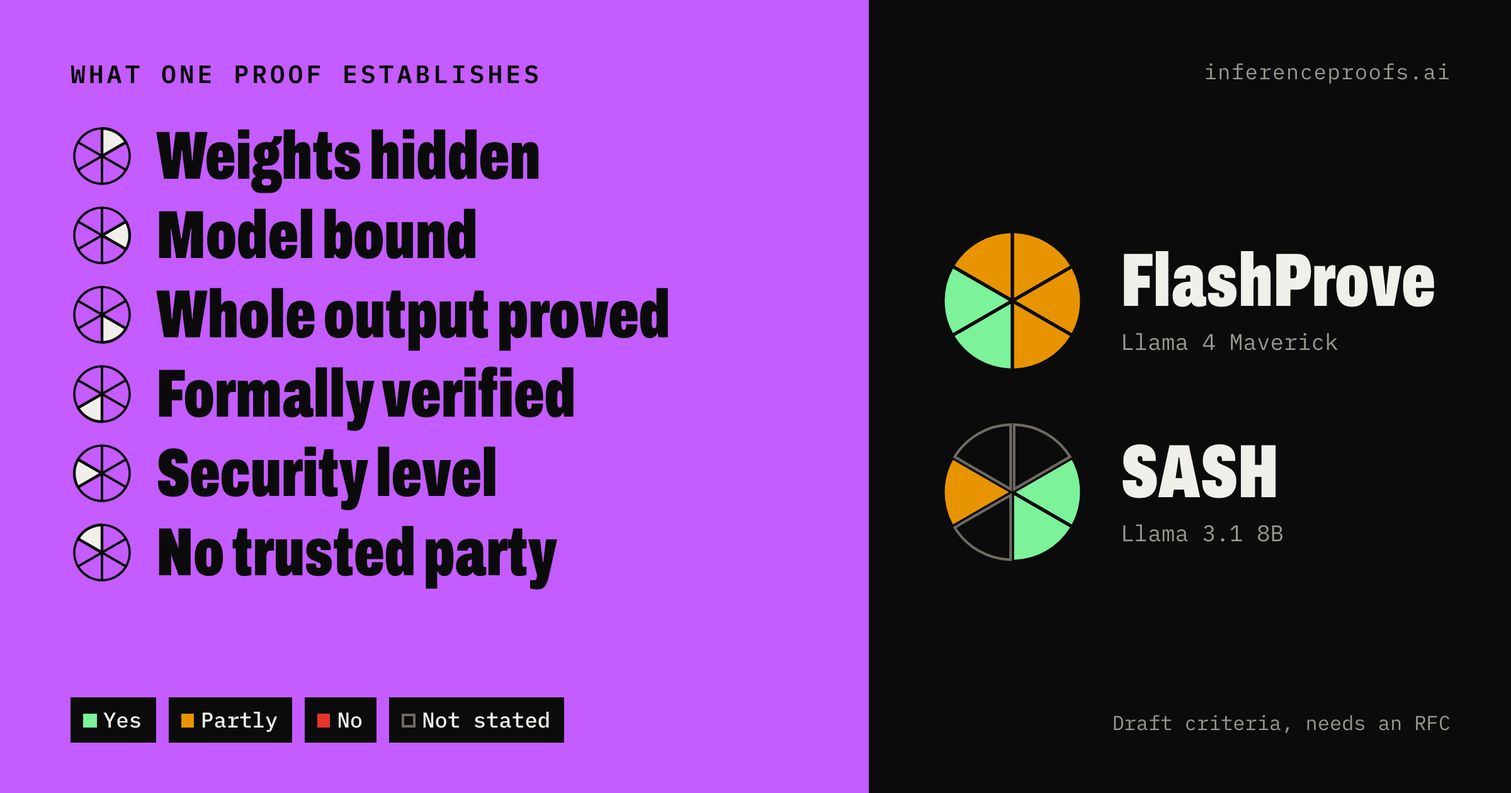
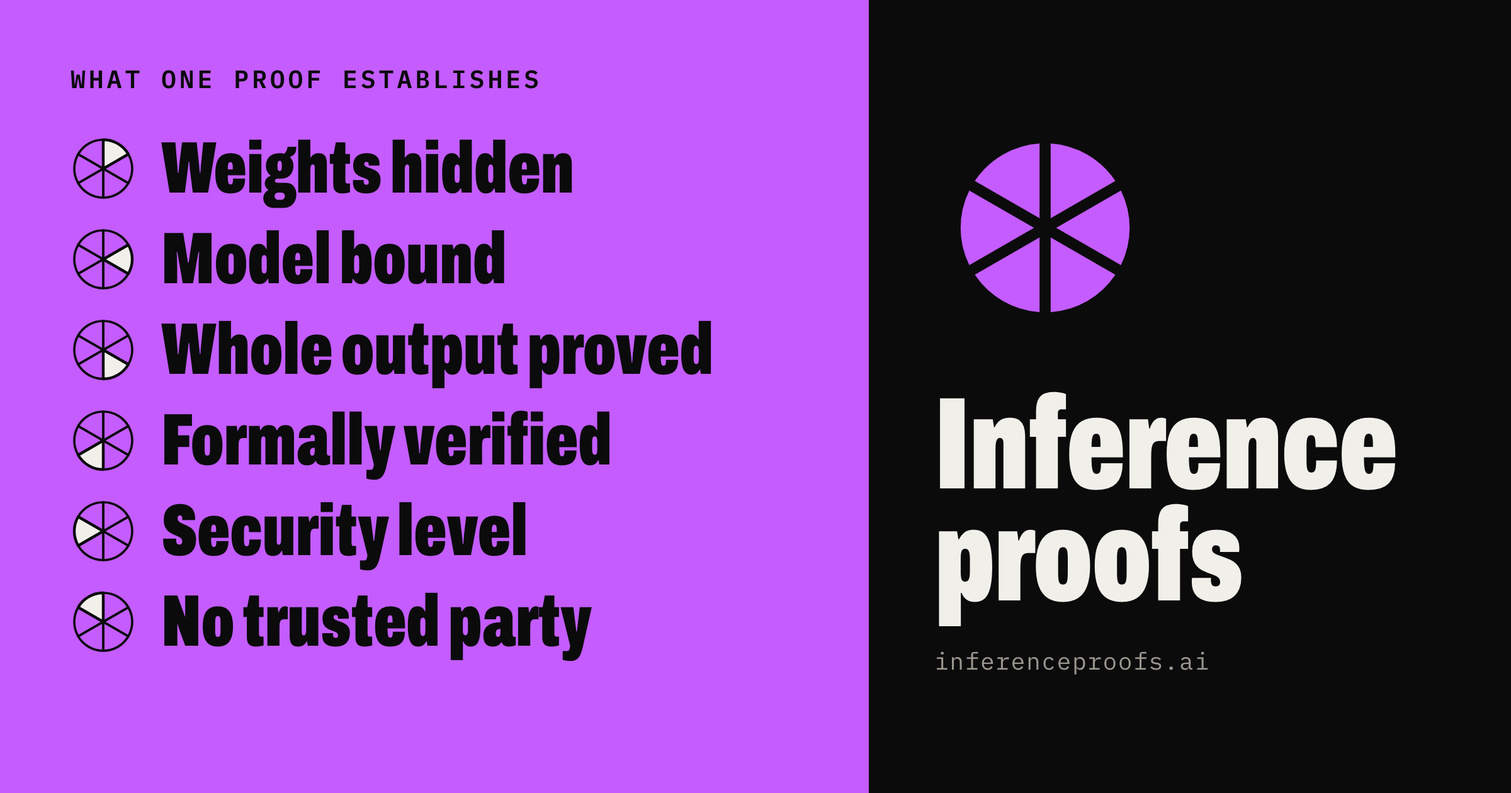
Keep the home preview card free of systems and models
Link previews stay cached in message apps for as long as a message
lives, so the home picture now holds only what does not change with the
systems benchmarked: the six properties, each beside its place in the
pie, and the site's mark and name. No system pie, name, model or state,
and so no states key or draft label (the system cards keep both).
test_cards.py checks that the home source names no system and no model.

Claude-Session: https://claude.ai/code/session_011qCSbnjLPKFSQTeMa9vkid

diff --git a/web/og/home.html b/web/og/home.html
@@ -10,19 +10,13 @@ html,body{width:1200px;height:630px;overflow:hidden;background:#0b0b0c;color:#f1
 .sw{display:inline-block;width:.62em;height:.62em;margin-right:.32em;vertical-align:.02em}
 .sw.yes{background:#7cf29a}.sw.partly{background:#e89400}.sw.no{background:#e8332a}.sw.unstated{box-shadow:inset 0 0 0 2px #6f6a62}
 
-.l{position:absolute;left:0;top:0;width:690px;height:630px;background:#c45cff;color:#0b0b0c;padding:46px 56px}
-.r{position:absolute;left:690px;top:0;right:0;height:630px;padding:46px 48px 46px 52px;display:flex;flex-direction:column;justify-content:center;gap:28px}
+.l{position:absolute;left:0;top:0;width:690px;height:630px;background:#c45cff;color:#0b0b0c;padding:50px 56px}
+.r{position:absolute;left:690px;top:0;right:0;height:630px;padding:50px 52px;display:flex;flex-direction:column;justify-content:center}
 .k{font-size:20px;font-weight:600;letter-spacing:.12em;text-transform:uppercase}
-ul{list-style:none;margin-top:26px;display:grid;gap:9px}
-li{display:flex;align-items:center;gap:18px}
-li .disp{font-size:54px;line-height:1;letter-spacing:-.004em}
-.key{position:absolute;left:56px;bottom:40px;display:flex;gap:10px}
-.chip{background:#0b0b0c;color:#f1efe9;font-size:17px;font-weight:500;padding:7px 11px 7px 10px;white-space:nowrap}
-.draft{position:absolute;right:48px;bottom:46px;font-size:16px;color:#9b978e}
-.sys .sl.unstated{stroke-width:2.4}
-.sys{display:flex;align-items:center;gap:24px}
-.sys .pie-svg{width:124px;height:124px;flex:none}
-.n{font-size:60px;line-height:.9}
-.m{font-size:18px;color:#9b978e;margin-top:10px}
-.url{position:absolute;right:48px;top:46px;font-size:17px;color:#9b978e;letter-spacing:.04em}
-</style></head><body><div class="l"><p class="k mono">What one proof establishes</p><ul><li><svg class="kmini" viewBox="-25.0 -25.0 50 50" width="50" height="50" aria-hidden="true" focusable="false"><path class="" d="M0.00 -0.00L19.05 -11.00A22.00 22.00 0 0 1 19.05 11.00Z"/><path class="" d="M0.00 0.00L19.05 11.00A22.00 22.00 0 0 1 0.00 22.00Z"/><path class="" d="M-0.00 0.00L-0.00 22.00A22.00 22.00 0 0 1 -19.05 11.00Z"/><path class="" d="M-0.00 0.00L-19.05 11.00A22.00 22.00 0 0 1 -19.05 -11.00Z"/><path class="" d="M-0.00 -0.00L-19.05 -11.00A22.00 22.00 0 0 1 -0.00 -22.00Z"/><path class="on" d="M0.00 -0.00L0.00 -22.00A22.00 22.00 0 0 1 19.05 -11.00Z"/></svg><span class="disp">Weights hidden</span></li><li><svg class="kmini" viewBox="-25.0 -25.0 50 50" width="50" height="50" aria-hidden="true" focusable="false"><path class="" d="M0.00 -0.00L0.00 -22.00A22.00 22.00 0 0 1 19.05 -11.00Z"/><path class="" d="M0.00 0.00L19.05 11.00A22.00 22.00 0 0 1 0.00 22.00Z"/><path class="" d="M-0.00 0.00L-0.00 22.00A22.00 22.00 0 0 1 -19.05 11.00Z"/><path class="" d="M-0.00 0.00L-19.05 11.00A22.00 22.00 0 0 1 -19.05 -11.00Z"/><path class="" d="M-0.00 -0.00L-19.05 -11.00A22.00 22.00 0 0 1 -0.00 -22.00Z"/><path class="on" d="M0.00 -0.00L19.05 -11.00A22.00 22.00 0 0 1 19.05 11.00Z"/></svg><span class="disp">Model bound</span></li><li><svg class="kmini" viewBox="-25.0 -25.0 50 50" width="50" height="50" aria-hidden="true" focusable="false"><path class="" d="M0.00 -0.00L0.00 -22.00A22.00 22.00 0 0 1 19.05 -11.00Z"/><path class="" d="M0.00 -0.00L19.05 -11.00A22.00 22.00 0 0 1 19.05 11.00Z"/><path class="" d="M-0.00 0.00L-0.00 22.00A22.00 22.00 0 0 1 -19.05 11.00Z"/><path class="" d="M-0.00 0.00L-19.05 11.00A22.00 22.00 0 0 1 -19.05 -11.00Z"/><path class="" d="M-0.00 -0.00L-19.05 -11.00A22.00 22.00 0 0 1 -0.00 -22.00Z"/><path class="on" d="M0.00 0.00L19.05 11.00A22.00 22.00 0 0 1 0.00 22.00Z"/></svg><span class="disp">Whole output proved</span></li><li><svg class="kmini" viewBox="-25.0 -25.0 50 50" width="50" height="50" aria-hidden="true" focusable="false"><path class="" d="M0.00 -0.00L0.00 -22.00A22.00 22.00 0 0 1 19.05 -11.00Z"/><path class="" d="M0.00 -0.00L19.05 -11.00A22.00 22.00 0 0 1 19.05 11.00Z"/><path class="" d="M0.00 0.00L19.05 11.00A22.00 22.00 0 0 1 0.00 22.00Z"/><path class="" d="M-0.00 0.00L-19.05 11.00A22.00 22.00 0 0 1 -19.05 -11.00Z"/><path class="" d="M-0.00 -0.00L-19.05 -11.00A22.00 22.00 0 0 1 -0.00 -22.00Z"/><path class="on" d="M-0.00 0.00L-0.00 22.00A22.00 22.00 0 0 1 -19.05 11.00Z"/></svg><span class="disp">Formally verified</span></li><li><svg class="kmini" viewBox="-25.0 -25.0 50 50" width="50" height="50" aria-hidden="true" focusable="false"><path class="" d="M0.00 -0.00L0.00 -22.00A22.00 22.00 0 0 1 19.05 -11.00Z"/><path class="" d="M0.00 -0.00L19.05 -11.00A22.00 22.00 0 0 1 19.05 11.00Z"/><path class="" d="M0.00 0.00L19.05 11.00A22.00 22.00 0 0 1 0.00 22.00Z"/><path class="" d="M-0.00 0.00L-0.00 22.00A22.00 22.00 0 0 1 -19.05 11.00Z"/><path class="" d="M-0.00 -0.00L-19.05 -11.00A22.00 22.00 0 0 1 -0.00 -22.00Z"/><path class="on" d="M-0.00 0.00L-19.05 11.00A22.00 22.00 0 0 1 -19.05 -11.00Z"/></svg><span class="disp">Security level</span></li><li><svg class="kmini" viewBox="-25.0 -25.0 50 50" width="50" height="50" aria-hidden="true" focusable="false"><path class="" d="M0.00 -0.00L0.00 -22.00A22.00 22.00 0 0 1 19.05 -11.00Z"/><path class="" d="M0.00 -0.00L19.05 -11.00A22.00 22.00 0 0 1 19.05 11.00Z"/><path class="" d="M0.00 0.00L19.05 11.00A22.00 22.00 0 0 1 0.00 22.00Z"/><path class="" d="M-0.00 0.00L-0.00 22.00A22.00 22.00 0 0 1 -19.05 11.00Z"/><path class="" d="M-0.00 0.00L-19.05 11.00A22.00 22.00 0 0 1 -19.05 -11.00Z"/><path class="on" d="M-0.00 -0.00L-19.05 -11.00A22.00 22.00 0 0 1 -0.00 -22.00Z"/></svg><span class="disp">No trusted party</span></li></ul><p class="key"><span class="chip mono"><i class="sw yes"></i>Yes</span><span class="chip mono"><i class="sw partly"></i>Partly</span><span class="chip mono"><i class="sw no"></i>No</span><span class="chip mono"><i class="sw unstated"></i>Not stated</span></p></div><div class="r"><div class="sys"><svg class="pie-svg " viewBox="-72.0 -72.0 144 144" width="144" height="144" aria-hidden="true" focusable="false"><path class="sl s1 partly" data-n="1" style="--dx:0.500;--dy:-0.866" d="M1.60 -2.77L1.60 -62.38A62.40 62.40 0 0 1 53.22 -32.58Z"/><path class="sl s2 partly" data-n="2" style="--dx:1.000;--dy:-0.000" d="M3.20 -0.00L54.82 -29.80A62.40 62.40 0 0 1 54.82 29.80Z"/><path class="sl s3 partly" data-n="3" style="--dx:0.500;--dy:0.866" d="M1.60 2.77L53.22 32.58A62.40 62.40 0 0 1 1.60 62.38Z"/><path class="sl s4 yes" data-n="4" style="--dx:-0.500;--dy:0.866" d="M-1.60 2.77L-1.60 62.38A62.40 62.40 0 0 1 -53.22 32.58Z"/><path class="sl s5 yes" data-n="5" style="--dx:-1.000;--dy:0.000" d="M-3.20 0.00L-54.82 29.80A62.40 62.40 0 0 1 -54.82 -29.80Z"/><path class="sl s6 partly" data-n="6" style="--dx:-0.500;--dy:-0.866" d="M-1.60 -2.77L-53.22 -32.58A62.40 62.40 0 0 1 -1.60 -62.38Z"/></svg><div><p class="disp n">FlashProve</p><p class="mono m">Llama 4 Maverick</p></div></div><div class="sys"><svg class="pie-svg " viewBox="-72.0 -72.0 144 144" width="144" height="144" aria-hidden="true" focusable="false"><path class="sl s1 unstated" data-n="1" style="--dx:0.500;--dy:-0.866" d="M1.60 -2.77L1.60 -62.38A62.40 62.40 0 0 1 53.22 -32.58Z"/><path class="sl s2 yes" data-n="2" style="--dx:1.000;--dy:-0.000" d="M3.20 -0.00L54.82 -29.80A62.40 62.40 0 0 1 54.82 29.80Z"/><path class="sl s3 yes" data-n="3" style="--dx:0.500;--dy:0.866" d="M1.60 2.77L53.22 32.58A62.40 62.40 0 0 1 1.60 62.38Z"/><path class="sl s4 unstated" data-n="4" style="--dx:-0.500;--dy:0.866" d="M-1.60 2.77L-1.60 62.38A62.40 62.40 0 0 1 -53.22 32.58Z"/><path class="sl s5 partly" data-n="5" style="--dx:-1.000;--dy:0.000" d="M-3.20 0.00L-54.82 29.80A62.40 62.40 0 0 1 -54.82 -29.80Z"/><path class="sl s6 unstated" data-n="6" style="--dx:-0.500;--dy:-0.866" d="M-1.60 -2.77L-53.22 -32.58A62.40 62.40 0 0 1 -1.60 -62.38Z"/></svg><div><p class="disp n">SASH</p><p class="mono m">Llama 3.1 8B</p></div></div></div><p class="url mono">inferenceproofs.ai</p><p class="draft mono">Draft criteria, needs an RFC</p></body></html>
+ul{list-style:none;margin-top:30px;display:grid;gap:14px}
+li{display:flex;align-items:center;gap:20px}
+li .disp{font-size:58px;line-height:1;letter-spacing:-.004em}
+.mark{display:block;width:176px;height:176px;fill:#c45cff}
+.name{font-size:104px;line-height:.86;margin-top:40px;letter-spacing:-.008em}
+.url{font-size:19px;color:#9b978e;letter-spacing:.04em;margin-top:26px}
+</style></head><body><div class="l"><p class="k mono">What one proof establishes</p><ul><li><svg class="kmini" viewBox="-26.0 -26.0 52 52" width="52" height="52" aria-hidden="true" focusable="false"><path class="" d="M0.00 -0.00L19.92 -11.50A23.00 23.00 0 0 1 19.92 11.50Z"/><path class="" d="M0.00 0.00L19.92 11.50A23.00 23.00 0 0 1 0.00 23.00Z"/><path class="" d="M-0.00 0.00L-0.00 23.00A23.00 23.00 0 0 1 -19.92 11.50Z"/><path class="" d="M-0.00 0.00L-19.92 11.50A23.00 23.00 0 0 1 -19.92 -11.50Z"/><path class="" d="M-0.00 -0.00L-19.92 -11.50A23.00 23.00 0 0 1 -0.00 -23.00Z"/><path class="on" d="M0.00 -0.00L0.00 -23.00A23.00 23.00 0 0 1 19.92 -11.50Z"/></svg><span class="disp">Weights hidden</span></li><li><svg class="kmini" viewBox="-26.0 -26.0 52 52" width="52" height="52" aria-hidden="true" focusable="false"><path class="" d="M0.00 -0.00L0.00 -23.00A23.00 23.00 0 0 1 19.92 -11.50Z"/><path class="" d="M0.00 0.00L19.92 11.50A23.00 23.00 0 0 1 0.00 23.00Z"/><path class="" d="M-0.00 0.00L-0.00 23.00A23.00 23.00 0 0 1 -19.92 11.50Z"/><path class="" d="M-0.00 0.00L-19.92 11.50A23.00 23.00 0 0 1 -19.92 -11.50Z"/><path class="" d="M-0.00 -0.00L-19.92 -11.50A23.00 23.00 0 0 1 -0.00 -23.00Z"/><path class="on" d="M0.00 -0.00L19.92 -11.50A23.00 23.00 0 0 1 19.92 11.50Z"/></svg><span class="disp">Model bound</span></li><li><svg class="kmini" viewBox="-26.0 -26.0 52 52" width="52" height="52" aria-hidden="true" focusable="false"><path class="" d="M0.00 -0.00L0.00 -23.00A23.00 23.00 0 0 1 19.92 -11.50Z"/><path class="" d="M0.00 -0.00L19.92 -11.50A23.00 23.00 0 0 1 19.92 11.50Z"/><path class="" d="M-0.00 0.00L-0.00 23.00A23.00 23.00 0 0 1 -19.92 11.50Z"/><path class="" d="M-0.00 0.00L-19.92 11.50A23.00 23.00 0 0 1 -19.92 -11.50Z"/><path class="" d="M-0.00 -0.00L-19.92 -11.50A23.00 23.00 0 0 1 -0.00 -23.00Z"/><path class="on" d="M0.00 0.00L19.92 11.50A23.00 23.00 0 0 1 0.00 23.00Z"/></svg><span class="disp">Whole output proved</span></li><li><svg class="kmini" viewBox="-26.0 -26.0 52 52" width="52" height="52" aria-hidden="true" focusable="false"><path class="" d="M0.00 -0.00L0.00 -23.00A23.00 23.00 0 0 1 19.92 -11.50Z"/><path class="" d="M0.00 -0.00L19.92 -11.50A23.00 23.00 0 0 1 19.92 11.50Z"/><path class="" d="M0.00 0.00L19.92 11.50A23.00 23.00 0 0 1 0.00 23.00Z"/><path class="" d="M-0.00 0.00L-19.92 11.50A23.00 23.00 0 0 1 -19.92 -11.50Z"/><path class="" d="M-0.00 -0.00L-19.92 -11.50A23.00 23.00 0 0 1 -0.00 -23.00Z"/><path class="on" d="M-0.00 0.00L-0.00 23.00A23.00 23.00 0 0 1 -19.92 11.50Z"/></svg><span class="disp">Formally verified</span></li><li><svg class="kmini" viewBox="-26.0 -26.0 52 52" width="52" height="52" aria-hidden="true" focusable="false"><path class="" d="M0.00 -0.00L0.00 -23.00A23.00 23.00 0 0 1 19.92 -11.50Z"/><path class="" d="M0.00 -0.00L19.92 -11.50A23.00 23.00 0 0 1 19.92 11.50Z"/><path class="" d="M0.00 0.00L19.92 11.50A23.00 23.00 0 0 1 0.00 23.00Z"/><path class="" d="M-0.00 0.00L-0.00 23.00A23.00 23.00 0 0 1 -19.92 11.50Z"/><path class="" d="M-0.00 -0.00L-19.92 -11.50A23.00 23.00 0 0 1 -0.00 -23.00Z"/><path class="on" d="M-0.00 0.00L-19.92 11.50A23.00 23.00 0 0 1 -19.92 -11.50Z"/></svg><span class="disp">Security level</span></li><li><svg class="kmini" viewBox="-26.0 -26.0 52 52" width="52" height="52" aria-hidden="true" focusable="false"><path class="" d="M0.00 -0.00L0.00 -23.00A23.00 23.00 0 0 1 19.92 -11.50Z"/><path class="" d="M0.00 -0.00L19.92 -11.50A23.00 23.00 0 0 1 19.92 11.50Z"/><path class="" d="M0.00 0.00L19.92 11.50A23.00 23.00 0 0 1 0.00 23.00Z"/><path class="" d="M-0.00 0.00L-0.00 23.00A23.00 23.00 0 0 1 -19.92 11.50Z"/><path class="" d="M-0.00 0.00L-19.92 11.50A23.00 23.00 0 0 1 -19.92 -11.50Z"/><path class="on" d="M-0.00 -0.00L-19.92 -11.50A23.00 23.00 0 0 1 -0.00 -23.00Z"/></svg><span class="disp">No trusted party</span></li></ul></div><div class="r"><svg class="mark" viewBox="-32 -32 64 64" aria-hidden="true"><path d="M1.60 -2.77L1.60 -24.35A24.40 24.40 0 0 1 20.29 -13.56Z"/><path d="M3.20 -0.00L21.89 -10.79A24.40 24.40 0 0 1 21.89 10.79Z"/><path d="M1.60 2.77L20.29 13.56A24.40 24.40 0 0 1 1.60 24.35Z"/><path d="M-1.60 2.77L-1.60 24.35A24.40 24.40 0 0 1 -20.29 13.56Z"/><path d="M-3.20 0.00L-21.89 10.79A24.40 24.40 0 0 1 -21.89 -10.79Z"/><path d="M-1.60 -2.77L-20.29 -13.56A24.40 24.40 0 0 1 -1.60 -24.35Z"/></svg><p class="disp name">Inference<br>proofs</p><p class="mono url">inferenceproofs.ai</p></div></body></html>

diff --git a/web/reference.html b/web/reference.html
@@ -1,4 +1,4 @@
-<!doctype html><html lang="en"><head><meta charset="utf-8"><meta name="viewport" content="width=device-width, initial-scale=1"><script>try{if(!matchMedia("(prefers-reduced-motion: reduce)").matches)document.documentElement.classList.add("anim")}catch(_){}</script><title>References</title><meta name="description" content="The references: plain serving and a rerun by a weights holder, their six properties and their figures."><meta name="color-scheme" content="dark"><link rel="canonical" href="https://www.inferenceproofs.ai/reference"><meta property="og:type" content="website"><meta property="og:site_name" content="Inference proofs"><meta property="og:title" content="References · Inference proofs"><meta property="og:description" content="The references: plain serving and a rerun by a weights holder, their six properties and their figures."><meta property="og:url" content="https://www.inferenceproofs.ai/reference"><meta property="og:image" content="https://www.inferenceproofs.ai/og/home.png?v=dde7ecc0f8d5"><meta property="og:image:type" content="image/png"><meta property="og:image:width" content="2400"><meta property="og:image:height" content="1260"><meta property="og:image:alt" content="Inference proofs: the six properties of one proof, and the pies of FlashProve, SASH. Draft criteria, needs an RFC."><meta name="twitter:card" content="summary_large_image"><meta name="twitter:title" content="References · Inference proofs"><meta name="twitter:description" content="The references: plain serving and a rerun by a weights holder, their six properties and their figures."><meta name="twitter:image" content="https://www.inferenceproofs.ai/og/home.png?v=dde7ecc0f8d5"><meta name="twitter:image:alt" content="Inference proofs: the six properties of one proof, and the pies of FlashProve, SASH. Draft criteria, needs an RFC."><link rel="icon" href="/og/icon.svg" type="image/svg+xml"><link rel="apple-touch-icon" href="/og/icon.png?v=aab7f9d5d393"><link rel="preconnect" href="https://fonts.googleapis.com"><link rel="preconnect" href="https://fonts.gstatic.com" crossorigin><link href="https://fonts.googleapis.com/css2?family=Archivo:wdth,wght@62..125,400..900&family=IBM+Plex+Mono:wght@400;500;600&display=block" rel="stylesheet"><link rel="stylesheet" href="words.css"></head><body class="system reference">
+<!doctype html><html lang="en"><head><meta charset="utf-8"><meta name="viewport" content="width=device-width, initial-scale=1"><script>try{if(!matchMedia("(prefers-reduced-motion: reduce)").matches)document.documentElement.classList.add("anim")}catch(_){}</script><title>References</title><meta name="description" content="The references: plain serving and a rerun by a weights holder, their six properties and their figures."><meta name="color-scheme" content="dark"><link rel="canonical" href="https://www.inferenceproofs.ai/reference"><meta property="og:type" content="website"><meta property="og:site_name" content="Inference proofs"><meta property="og:title" content="References · Inference proofs"><meta property="og:description" content="The references: plain serving and a rerun by a weights holder, their six properties and their figures."><meta property="og:url" content="https://www.inferenceproofs.ai/reference"><meta property="og:image" content="https://www.inferenceproofs.ai/og/home.png?v=ee1bbadd9e33"><meta property="og:image:type" content="image/png"><meta property="og:image:width" content="2400"><meta property="og:image:height" content="1260"><meta property="og:image:alt" content="Inference proofs: Weights hidden, Model bound, Whole output proved, Formally verified, Security level, No trusted party."><meta name="twitter:card" content="summary_large_image"><meta name="twitter:title" content="References · Inference proofs"><meta name="twitter:description" content="The references: plain serving and a rerun by a weights holder, their six properties and their figures."><meta name="twitter:image" content="https://www.inferenceproofs.ai/og/home.png?v=ee1bbadd9e33"><meta name="twitter:image:alt" content="Inference proofs: Weights hidden, Model bound, Whole output proved, Formally verified, Security level, No trusted party."><link rel="icon" href="/og/icon.svg" type="image/svg+xml"><link rel="apple-touch-icon" href="/og/icon.png?v=aab7f9d5d393"><link rel="preconnect" href="https://fonts.googleapis.com"><link rel="preconnect" href="https://fonts.gstatic.com" crossorigin><link href="https://fonts.googleapis.com/css2?family=Archivo:wdth,wght@62..125,400..900&family=IBM+Plex+Mono:wght@400;500;600&display=block" rel="stylesheet"><link rel="stylesheet" href="words.css"></head><body class="system reference">
 <header class="top"><p class="brand"><a href="index.html">Inference proofs</a></p><nav aria-label="Site"><a href="index.html">Overview</a><a href="flashprove.html">FlashProve</a><a href="sash.html">SASH</a></nav></header>
 <main id="main" class="sys refpage">
   <section class="mast mast-sys" aria-labelledby="h-name">

diff --git a/web/index.html b/web/index.html
@@ -1,4 +1,4 @@
-<!doctype html><html lang="en"><head><meta charset="utf-8"><meta name="viewport" content="width=device-width, initial-scale=1"><script>try{if(!matchMedia("(prefers-reduced-motion: reduce)").matches)document.documentElement.classList.add("anim")}catch(_){}</script><title>Inference proofs</title><meta name="description" content="Six properties of one proof per system (draft criteria), and the benchmark&#x27;s own figures per model, sortable by column."><meta name="color-scheme" content="dark"><link rel="canonical" href="https://www.inferenceproofs.ai/"><meta property="og:type" content="website"><meta property="og:site_name" content="Inference proofs"><meta property="og:title" content="Inference proofs"><meta property="og:description" content="Six properties of one proof per system (draft criteria), and the benchmark&#x27;s own figures per model, sortable by column."><meta property="og:url" content="https://www.inferenceproofs.ai/"><meta property="og:image" content="https://www.inferenceproofs.ai/og/home.png?v=dde7ecc0f8d5"><meta property="og:image:type" content="image/png"><meta property="og:image:width" content="2400"><meta property="og:image:height" content="1260"><meta property="og:image:alt" content="Inference proofs: the six properties of one proof, and the pies of FlashProve, SASH. Draft criteria, needs an RFC."><meta name="twitter:card" content="summary_large_image"><meta name="twitter:title" content="Inference proofs"><meta name="twitter:description" content="Six properties of one proof per system (draft criteria), and the benchmark&#x27;s own figures per model, sortable by column."><meta name="twitter:image" content="https://www.inferenceproofs.ai/og/home.png?v=dde7ecc0f8d5"><meta name="twitter:image:alt" content="Inference proofs: the six properties of one proof, and the pies of FlashProve, SASH. Draft criteria, needs an RFC."><link rel="icon" href="/og/icon.svg" type="image/svg+xml"><link rel="apple-touch-icon" href="/og/icon.png?v=aab7f9d5d393"><link rel="preconnect" href="https://fonts.googleapis.com"><link rel="preconnect" href="https://fonts.gstatic.com" crossorigin><link href="https://fonts.googleapis.com/css2?family=Archivo:wdth,wght@62..125,400..900&family=IBM+Plex+Mono:wght@400;500;600&display=block" rel="stylesheet"><link rel="stylesheet" href="words.css"></head><body class="home">
+<!doctype html><html lang="en"><head><meta charset="utf-8"><meta name="viewport" content="width=device-width, initial-scale=1"><script>try{if(!matchMedia("(prefers-reduced-motion: reduce)").matches)document.documentElement.classList.add("anim")}catch(_){}</script><title>Inference proofs</title><meta name="description" content="Six properties of one proof per system (draft criteria), and the benchmark&#x27;s own figures per model, sortable by column."><meta name="color-scheme" content="dark"><link rel="canonical" href="https://www.inferenceproofs.ai/"><meta property="og:type" content="website"><meta property="og:site_name" content="Inference proofs"><meta property="og:title" content="Inference proofs"><meta property="og:description" content="Six properties of one proof per system (draft criteria), and the benchmark&#x27;s own figures per model, sortable by column."><meta property="og:url" content="https://www.inferenceproofs.ai/"><meta property="og:image" content="https://www.inferenceproofs.ai/og/home.png?v=ee1bbadd9e33"><meta property="og:image:type" content="image/png"><meta property="og:image:width" content="2400"><meta property="og:image:height" content="1260"><meta property="og:image:alt" content="Inference proofs: Weights hidden, Model bound, Whole output proved, Formally verified, Security level, No trusted party."><meta name="twitter:card" content="summary_large_image"><meta name="twitter:title" content="Inference proofs"><meta name="twitter:description" content="Six properties of one proof per system (draft criteria), and the benchmark&#x27;s own figures per model, sortable by column."><meta name="twitter:image" content="https://www.inferenceproofs.ai/og/home.png?v=ee1bbadd9e33"><meta name="twitter:image:alt" content="Inference proofs: Weights hidden, Model bound, Whole output proved, Formally verified, Security level, No trusted party."><link rel="icon" href="/og/icon.svg" type="image/svg+xml"><link rel="apple-touch-icon" href="/og/icon.png?v=aab7f9d5d393"><link rel="preconnect" href="https://fonts.googleapis.com"><link rel="preconnect" href="https://fonts.gstatic.com" crossorigin><link href="https://fonts.googleapis.com/css2?family=Archivo:wdth,wght@62..125,400..900&family=IBM+Plex+Mono:wght@400;500;600&display=block" rel="stylesheet"><link rel="stylesheet" href="words.css"></head><body class="home">
 <header class="top"><p class="brand"><a href="index.html">Inference proofs</a></p><nav aria-label="Site"><a href="index.html" aria-current=page>Overview</a><a href="flashprove.html">FlashProve</a><a href="sash.html">SASH</a></nav></header>
 <main id="main">
 

diff --git a/web/build.py b/web/build.py
@@ -956,10 +956,7 @@ def card_alt(card):
     """The picture in words, from the same data the picture draws."""
     draft = G["legend"]["draft_short"]
     if card == "home":
-        names = ", ".join(site["systems"][r["system"]]["name"] for r in card_provers())
-        return (
-            f"Inference proofs: the six properties of one proof, and the pies of {names}. {draft}."
-        )
+        return "Inference proofs: " + ", ".join(p["name"] for p in G["properties"]) + "."
     s, g = site["systems"][card], G["rows"][card]
     row = next(r for r in PROVERS if r["system"] == card)
     states = "; ".join(f"{c['name']}: {c['word']}" for c in g["cells"])
@@ -994,11 +991,6 @@ def share_meta(title, desc, path, card):
     )
 
 
-def card_provers():
-    """The benchmarked systems, model by model (biggest first), A to Z within one."""
-    return [r for d in MODELS for r in by_name(r for r in PROVERS if model_of(r) == d)]
-
-
 CARD_CSS = f"""
 *{{box-sizing:border-box;margin:0;padding:0}}
 html,body{{width:{CARD_W}px;height:{CARD_H}px;overflow:hidden;background:{GROUND};color:{PAPER};-webkit-font-smoothing:antialiased}}
@@ -1021,43 +1013,28 @@ def card_page(card, body, css):
 
 
 def home_card():
-    """Violet: the six properties, each beside its place in the pie. Black: each benchmarked system's pie."""
+    """Only what does not change with the systems benchmarked, since link previews stay cached:
+    violet, the six properties, each beside its place in the pie; black, the site's mark and name."""
     props = "".join(
-        f'<li>{key_mini(p["n"], 50)}<span class="disp">{e(p["name"])}</span></li>'
+        f'<li>{key_mini(p["n"], 52)}<span class="disp">{e(p["name"])}</span></li>'
         for p in G["properties"]
     )
-    key = "".join(
-        f'<span class="chip mono"><i class="sw {CLS[s]}"></i>{e(WORD[s])}</span>'
-        for s in G["state_order"]
-    )
-    rows = card_provers()
-    assert 1 <= len(rows) <= 3, "the home card holds one to three systems"
-    systems = "".join(
-        f'<div class="sys">{pie_svg(G["rows"][r["system"]]["states"], 128)}'
-        f'<div><p class="disp n">{e(site["systems"][r["system"]]["name"])}</p><p class="mono m">{e(model_name(r))}</p></div></div>'
-        for r in rows
-    )
+    mark = "".join(f'<path d="{wedge(i, 26, 1.6)}"/>' for i in range(6))
     css = f"""
-.l{{position:absolute;left:0;top:0;width:690px;height:{CARD_H}px;background:{VIOLET};color:{GROUND};padding:46px 56px}}
-.r{{position:absolute;left:690px;top:0;right:0;height:{CARD_H}px;padding:46px 48px 46px 52px;display:flex;flex-direction:column;justify-content:center;gap:28px}}
+.l{{position:absolute;left:0;top:0;width:690px;height:{CARD_H}px;background:{VIOLET};color:{GROUND};padding:50px 56px}}
+.r{{position:absolute;left:690px;top:0;right:0;height:{CARD_H}px;padding:50px 52px;display:flex;flex-direction:column;justify-content:center}}
 .k{{font-size:20px;font-weight:600;letter-spacing:.12em;text-transform:uppercase}}
-ul{{list-style:none;margin-top:26px;display:grid;gap:9px}}
-li{{display:flex;align-items:center;gap:18px}}
-li .disp{{font-size:54px;line-height:1;letter-spacing:-.004em}}
-.key{{position:absolute;left:56px;bottom:40px;display:flex;gap:10px}}
-.chip{{background:{GROUND};color:{PAPER};font-size:17px;font-weight:500;padding:7px 11px 7px 10px;white-space:nowrap}}
-.draft{{position:absolute;right:48px;bottom:46px;font-size:16px;color:{MUTED}}}
-.sys .sl.unstated{{stroke-width:2.4}}
-.sys{{display:flex;align-items:center;gap:24px}}
-.sys .pie-svg{{width:124px;height:124px;flex:none}}
-.n{{font-size:60px;line-height:.9}}
-.m{{font-size:18px;color:{MUTED};margin-top:10px}}
-.url{{position:absolute;right:48px;top:46px;font-size:17px;color:{MUTED};letter-spacing:.04em}}
+ul{{list-style:none;margin-top:30px;display:grid;gap:14px}}
+li{{display:flex;align-items:center;gap:20px}}
+li .disp{{font-size:58px;line-height:1;letter-spacing:-.004em}}
+.mark{{display:block;width:176px;height:176px;fill:{VIOLET}}}
+.name{{font-size:104px;line-height:.86;margin-top:40px;letter-spacing:-.008em}}
+.url{{font-size:19px;color:{MUTED};letter-spacing:.04em;margin-top:26px}}
 """
     body = (
-        f'<div class="l"><p class="k mono">What one proof establishes</p><ul>{props}</ul><p class="key">{key}</p></div>'
-        f'<div class="r">{systems}</div><p class="url mono">inferenceproofs.ai</p>'
-        f'<p class="draft mono">{e(G["legend"]["draft_short"])}</p>'
+        f'<div class="l"><p class="k mono">What one proof establishes</p><ul>{props}</ul></div>'
+        f'<div class="r"><svg class="mark" viewBox="-32 -32 64 64" aria-hidden="true">{mark}</svg>'
+        f'<p class="disp name">Inference<br>proofs</p><p class="mono url">inferenceproofs.ai</p></div>'
     )
     return card_page("home", body, css)
 

diff --git a/web/test_cards.py b/web/test_cards.py
@@ -68,12 +68,22 @@ def test_picture_size():
         assert png.stat().st_size < 1_000_000  # well under the 5 MB the platforms accept
 
 
-def test_cards_carry_the_draft_label():
+def test_system_cards_carry_the_draft_label():
     # the states are draft criteria; a picture travels without the page around it, so it says so
     draft = build.html.escape(build.G["legend"]["draft_short"])
-    for card in RECORD:
-        if card != "icon":
-            assert draft in (OG / f"{card}.html").read_text(), card
+    for sid in build.PAGE:
+        assert draft in (OG / f"{sid}.html").read_text(), sid
+
+
+def test_home_card_holds_nothing_that_changes():
+    # link previews stay cached in message apps: the home picture names no system and no model
+    src = (OG / "home.html").read_text()
+    for sid, sys_ in build.site["systems"].items():
+        assert sys_["name"] not in src, sid
+    for name in build.MODEL_NAME.values():
+        assert name not in src, name
+    assert 'class="sl ' not in src  # no system's pie
+    assert build.card_alt("home").count(":") == 1  # the alt names the properties only
 
 
 def test_icon():

diff --git a/web/README.md b/web/README.md
@@ -82,9 +82,9 @@ Then the figures (four plates with every label: spread, scope, grade, checked, w
 
 What a shared link shows (Open Graph and X `summary_large_image`): every page carries its title, description, canonical URL and a picture with its alt text, all from the data. The pictures are 1200 x 630 at 2x (2400 x 1260 PNG) and drawn in the site's own type and inks:
 
-- `og/home.png` (the home and the reference page): the six property names on the violet field, each beside its place in the pie, the states key, and each benchmarked system's pie with its model.
+- `og/home.png` (the home and the reference page): only what does not change with the systems benchmarked, since link previews stay cached in message apps for as long as the message lives: the six property names on the violet field, each beside its place in the pie, and the site's mark and name. No system, model or state.
 - `og/<system>.png`: the system page's first screen: the name on the violet band with its model and pin, then its pie with each property's state beside its own slice.
-- Both say "Draft criteria, needs an RFC" (the data's label), since a picture travels without the page around it. Not stated slices get a heavier outline than on the pages, so they still read at preview size. The alt text says what the picture draws.
+- A system card says "Draft criteria, needs an RFC" (the data's label), since a picture travels without the page around it. Not stated slices get a heavier outline than on the pages, so they still read at preview size. The alt text says what the picture draws.
 - `og/icon.svg` (the favicon) and `og/icon.png` (the 180 px touch icon, rendered from `og/icon.html`): the pie in ground ink on the violet field.
 
 No figures are drawn: results are placeholders until a release exists, and a picture travels without its labels. `build.py` writes each picture's source (`og/<card>.html`); `og.mjs` renders it with the same Playwright as `shoot.mjs` (fonts from Google Fonts, so it needs the network), refuses a card whose fonts did not load, whose content spills past its edges or whose system name runs into the band's corner text, and records the sha256 of source and picture in `og/cards.json`. The pages name each picture with `?v=` and the first 12 hex of its hash, so a new picture is a new URL for link-preview caches. `test_cards.py` fails when a committed picture was not rendered from its committed source.
